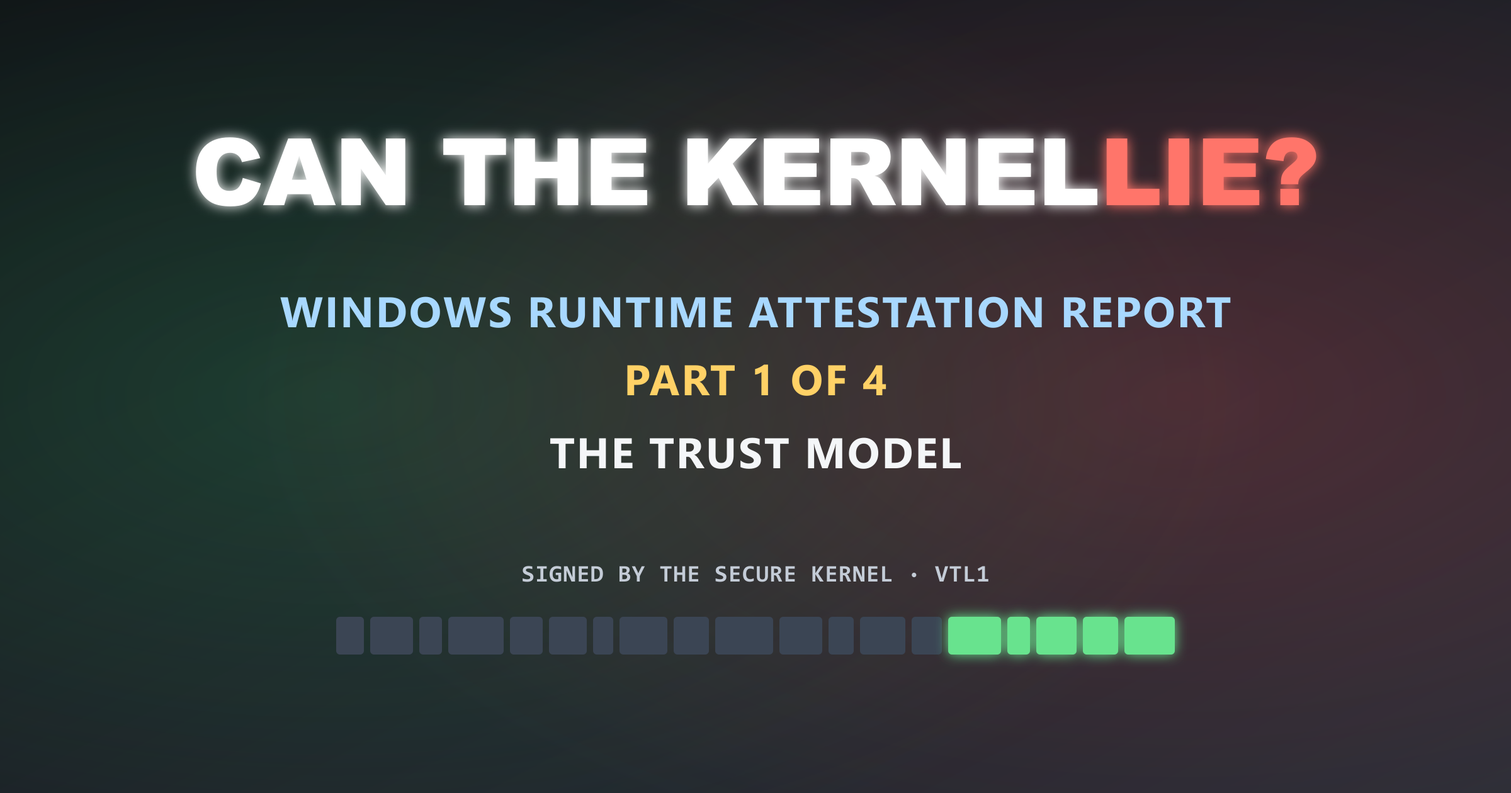
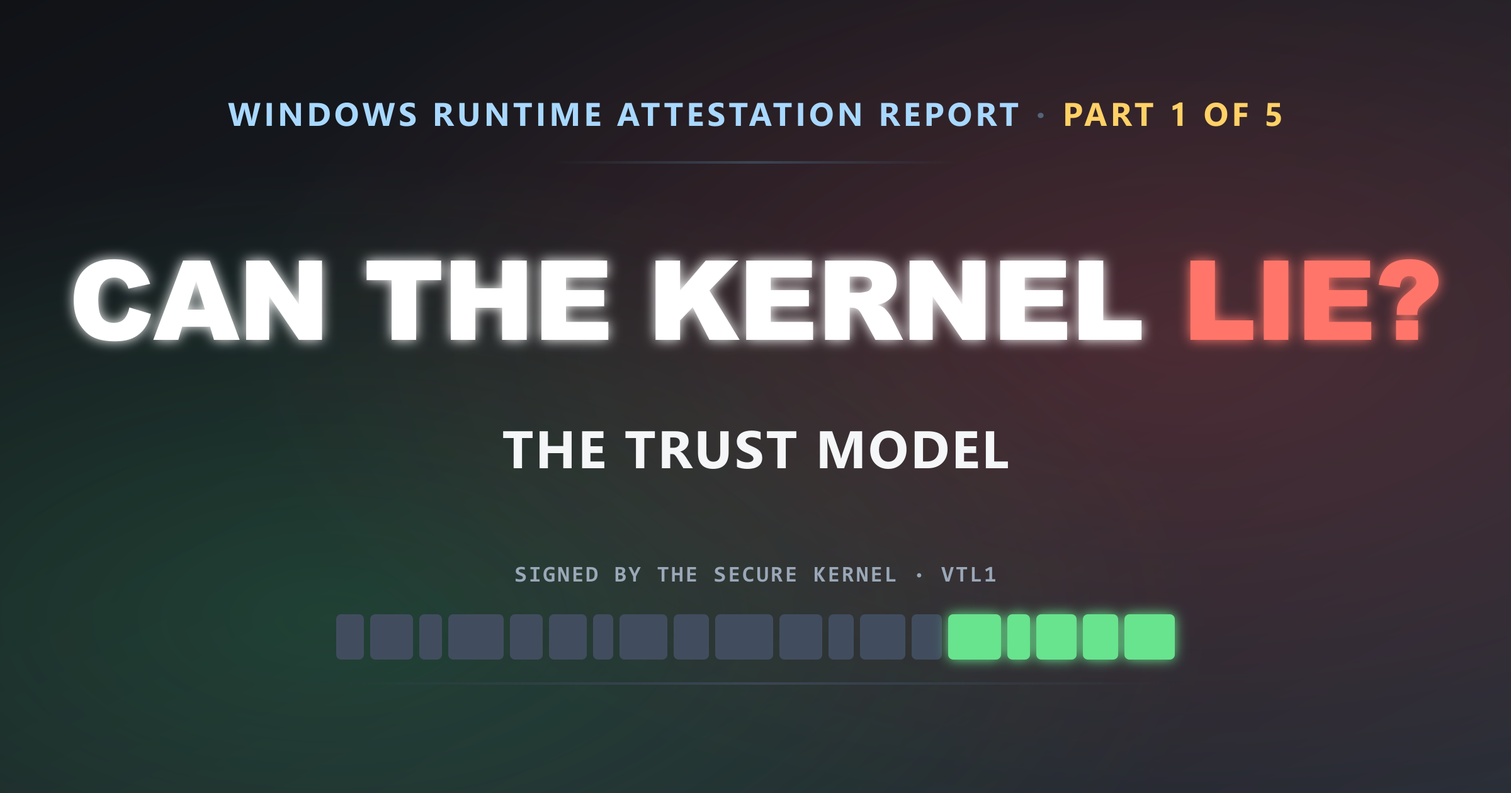
Rework the Post 1 draft and correct its trust claims
Restructure the draft on the arc used by the published hotpatch post and
bring the hero in line with the restyled series template.

Correct claims a reviewer would catch: the signed header lists the report
types the package contains rather than the ones requested, a TPM quote
ties a report to a machine without proving it is the machine being
checked, and the driver report keeps entries for unloaded drivers. Scope
the threat model where VTL1 is introduced and restore the caveat that a
clean report is not a clean machine.

Copilot-Session: 1466d9e8-30fc-473e-a57c-11063a055c92

diff --git a/_drafts/runtime-attestation-report-wip.md b/_drafts/runtime-attestation-report-wip.md
@@ -19,277 +19,148 @@ blog: true
 description: "How the Windows Runtime Attestation Report gives a remote server signed evidence about kernel state, even when the normal kernel may be compromised."
 ---
 
+Say you're writing anti-cheat. Your driver sits in the Windows kernel, down where the serious cheats operate, and your job is to spot tampering. So you ask the kernel what's loaded and what has changed.
+
+Now suppose the cheat got into the kernel before you did. You're querying the part of Windows the attacker already owns. The answer comes back clean, every time, because whatever writes that answer is the exact thing you were hunting for.
+
 A hacked computer will happily lie to you about being hacked.
 
-Take anti-cheat. Its driver runs in the Windows kernel and watches for things a
-cheat has changed. But if the cheat gets into the kernel too, the anti-cheat is
-now asking the part of Windows the attacker already owns.
-
-Ask the system "has anything been messed with?", and the answer comes back from
-code the cheat already controls: "nope, all clean." Of course it does.
-
-Windows has an answer for this now, and it's one of my favourite things we've
-shipped. It's the Windows Runtime Attestation Report. You ask for it through
-one Windows API,
-[`GetRuntimeAttestationReport`](https://learn.microsoft.com/windows/win32/api/sysinfoapi/nf-sysinfoapi-getruntimeattestationreport){: target="_blank" rel="noopener" },
-and you get back a package of facts about the machine. A part of Windows the
-normal kernel can't touch signs it. Even a fully compromised kernel can't fake
-that signature.
-
-> For context: I'm an engineer on the Windows Secure Kernel team, and the Runtime
-> Attestation Report is a feature I built. So this is the view from the inside,
-> not a reverse-engineering guess.
-{: .prompt-info }
+Windows has a way out of this now, and it's genuinely one of my favourite things we've shipped. It's called the Windows Runtime Attestation Report. One Win32 API, [`GetRuntimeAttestationReport`](https://learn.microsoft.com/windows/win32/api/sysinfoapi/nf-sysinfoapi-getruntimeattestationreport){: target="_blank" rel="noopener" }, hands you back a package of facts about the machine, signed by a part of Windows that the normal kernel cannot reach into. Even a fully compromised kernel can't forge that signature.
 
 ![On the left, a hacked normal kernel answers 'all clean' with a red warning. On the right, the Secure Kernel hands back a signed report the hacked kernel cannot forge.](/assets/images/attestation/kernel-lies.svg){: .shadow }
-_The report still crosses VTL0 on its way out. Verification happens after it
-reaches your server._
+_The report still travels out through VTL0. Verification happens later, on your server._
 
-Games are just the easiest place to picture it. The same problem shows up
-anywhere a service has to trust a machine it can't see. I'll come back to those
-other uses later.
+> For context: I'm an engineer on the Windows Secure Kernel team at Microsoft, and the Runtime Attestation Report is a feature I built. So this is the view from the inside, not a reverse-engineering guess.
+{: .prompt-info }
 
-## So who are you even proving this to?
+Games are just the easiest place to picture the problem. The same shape turns up anywhere a service has to make a trust decision about a machine it can't physically inspect, and I'll come back to those at the end.
 
-Look at what actually failed up there. The thing you were inspecting was also the
-thing answering your questions, and once that's true, its answers are worth
-nothing.
+## Who are you even proving this to?
 
-The decision has to happen somewhere the machine can't reach. In practice that's
-a server you control. The gamer's PC (or the employee's laptop, or whatever)
-gathers some facts about itself and sends them to your server. Your server
-decides whether to trust it.
+Look again at what actually failed up there. The thing being inspected was also the thing answering, and asking harder or more cleverly doesn't change that.
 
-For that to work, the machine can't rewrite the answer on its way out. A hacked
-machine still isn't trustworthy. It just can't alter the package after the
-Secure Kernel has produced it.
+So the decision has to move somewhere the attacker can't reach, which in practice means a server you control. The machine gathers facts about itself, ships them off, and your server decides what to do about them.
 
-This is remote attestation: a machine proving facts about itself to someone who
-doesn't trust it. This series is about where Windows gets those facts from.
+That only works if the machine can't quietly doctor the answer on its way out. A signed report doesn't un-hack a compromised machine. What it takes away is the attacker's ability to rewrite the evidence once the Secure Kernel has produced it.
 
-You might already know remote attestation through the TPM, best known here for
-recording what your machine loaded on the way up so a server can check the boot
-chain afterwards. That answers a different question. Measured boot tells you how
-the machine started. It doesn't tell you that a driver loaded twenty minutes ago,
-or that a patch landed since. This report is about what's there at the moment you
-ask, which is where the "runtime" in the name comes from. That's a difference in
-what the evidence describes, not a knock on the TPM.
+This is remote attestation, which is just a machine proving facts about itself to somebody who has every reason not to believe it.
 
-## An answer the normal kernel can't forge
+You may already know remote attestation through the TPM, best known around here for recording what a machine loaded on the way up so that a server can check the boot chain afterwards. That answers a different question. Measured boot tells you how the machine started; it has nothing to say about a driver that loaded twenty minutes ago, or a patch that landed since. This report covers what is there at the moment you ask, which is where the "runtime" in the name comes from.
 
-The answer cannot come from the normal kernel, because that's the part that
-might be hacked in the first place.
+## An answer the kernel can't forge
 
-On a lot of Windows 11 machines
-[Virtualization Based Security](https://learn.microsoft.com/windows-hardware/design/device-experiences/oem-vbs){: target="_blank" rel="noopener" },
-or VBS, is already switched on. With it enabled, Windows runs two kernels
-instead of one. There's the normal kernel you know, the one your drivers and the
-cheat's driver both live in. The hypervisor enforces a wall around it. Behind
-that wall sits a second kernel, much smaller and much more trusted: the Secure
-Kernel.
+The answer can't come from the normal kernel, since that's the part that might be compromised. It has to come from somewhere the attacker can't follow.
 
-The normal world is VTL0. The secure world, where the Secure Kernel lives, is
-VTL1. What matters here is the boundary between them. Even if a rootkit
-completely owns the normal kernel, it still can't get into VTL1. It can't read
-VTL1's memory or run its own code in there. The hypervisor won't let it, and the
-CPU's virtualization hardware is what makes that stick. What VTL0 can do is ask,
-through a fixed set of calls VTL1 chooses to answer. That's how your app gets a
-report at all.
+On a lot of Windows 11 machines, [Virtualization Based Security](https://learn.microsoft.com/windows-hardware/design/device-experiences/oem-vbs){: target="_blank" rel="noopener" } is already switched on. With VBS enabled, Windows runs two kernels instead of one. There's the normal kernel you already know---the one your driver and the cheat's driver both live in---and the hypervisor enforces a wall around it. Behind that wall sits a second kernel, much smaller and much more trusted: the Secure Kernel.
 
-The Secure Kernel holds a private signing key that VTL0 never gets to see. When
-it produces a package, it signs it with that key, and your server checks the
-signature against the matching public key.
+The normal world is called VTL0, and the secure world where the Secure Kernel runs is VTL1. The boundary between them is the whole point. A rootkit can own VTL0 completely and still not get into VTL1: it can't read that memory and it can't run code there, because the hypervisor won't allow it and the CPU's virtualization hardware is what makes that stick. That is the assumption behind everything in this post: the attacker can have the normal kernel, but the hypervisor and the Secure Kernel are intact.
 
-Your server has to trust that public key before the package arrives. If it just
-accepts whatever key turns up alongside the package, a compromised machine can
-generate its own key pair, sign whatever it likes, and send you the matching
-public key. The check passes and proves nothing. The verification post will
-cover how to establish that trust.
+VTL0 isn't cut off entirely, or there'd be no API to call. It can ask through a fixed set of calls that VTL1 chooses to answer.
 
-That trust has a root, and it's the TPM. The Secure Kernel's public signing key
-ends up in the TPM-signed boot logs, so you can tie the key you're checking
-against back to that specific machine's hardware. The TPM does have a job here,
-then. It anchors the key, rather than telling you what's running right now.
+The Secure Kernel holds a private signing key that VTL0 never sees. When it builds a package it signs it with that key, and your server checks the signature against the matching public key.
 
-Think of everything in VTL0, your app included, as a courier carrying a signed
-document. The courier may read or drop it. It might also bring you yesterday's
-copy, but it can't rewrite the signed contents. The report is protected from
-forgery, not from being read.
+Your server has to trust that public key *before* the package turns up, and this is where the whole scheme quietly falls apart if you get it wrong. If it just accepts whatever key arrives alongside the package, then a compromised machine generates its own key pair, signs whatever it likes, sends you the matching public key, and your check passes while proving absolutely nothing. That trust is rooted in the TPM. During boot, Windows measures things into it, and the Secure Kernel's public signing key is one of them. Your server replays that log of measurements, checks the result against a set of values the TPM itself has signed, and only then believes the key came from a machine that booted the way it claims to have booted. The TPM does have a job here after all: it anchors the key rather than telling you what's running right now. My colleague Andrea Allievi has written up [how the TPM side of this works](https://www.andrea-allievi.com/blog/new-year-post-anti-cheat-evolution-in-windows-11/){: target="_blank" rel="noopener" } in detail, and I'll walk through the checking end of it later in the series.
 
 ![The VBS trust boundary: VTL0 carries a signed package across the boundary but cannot alter it; the Secure Kernel in VTL1 holds the signing key VTL0 never sees.](/assets/images/attestation/trust-boundary.svg){: .shadow }
-_VTL0 asks and VTL1 answers, which is also how your server's challenge gets
-across._
+_VTL0 asks and VTL1 answers, which is also how your server's challenge gets across._
 
-A verified package tells you the Secure Kernel produced it. It doesn't tell you
-where the Secure Kernel got each fact. A notary's stamp works the same way. It
-proves the document was signed in front of the notary. It says nothing about
-whether what's written inside is true.
+Think of everything in VTL0, your own app included, as an untrusted courier carrying a sealed envelope. It can read what's inside or lose it on the way, but altering the contents breaks the seal before your server ever opens it.
 
-Some of what's in the report VTL1 measured itself. Some of it VTL0 handed over
-and VTL1 wrote down. Both end up under the same signature. Your server needs to
-know where each field came from before it uses it. The
-[hotpatch post](/secure-hotpatch-report/) walks through exactly where that line
-falls for one of the reports, and it isn't where most people guess.
+A verified package tells you the Secure Kernel produced it. It doesn't tell you where the Secure Kernel got each individual fact. A notary's stamp works the same way: it proves the document was signed in front of the notary, and says nothing about whether the contents are true. Some of what lands in a report was measured by VTL1 itself. Some of it was handed over by VTL0 and written down. Both end up under the same signature, so your policy needs to know which is which. The [hotpatch post](/secure-hotpatch-report/) walks through exactly where that line falls for one report type, and it isn't where most people assume.
 
-## One package, several reports
+## What you actually get back
 
-The package works like an envelope with a few separate documents inside.
+The package works like an envelope with a few separate documents inside it.
 
-Each document is a report of a specific kind. The driver report lists kernel
-drivers loaded right now, with enough identity on each one to tell the real
-`nvlddmkm.sys` from something just wearing its name. The hotpatch report says
-which kernel-mode images have a live Microsoft patch on them, and how far down
-the patch chain the machine is. The Windows SDK also defines a Code Integrity
-report type. This series and the sample focus on the Driver and Hotpatch
-reports. More kinds can be added later, and when they are, the way you ask stays
-the same.
+Each document is a report of a particular kind. The driver report lists kernel drivers the machine has loaded, including ones that have since been unloaded, with enough identity on each to tell the real `nvlddmkm.sys` from an impostor with the same name. The hotpatch report says which kernel-mode images currently have a live Microsoft patch on them. The Windows SDK defines a Code Integrity report type as well. This series and the public sample concentrate on the driver and hotpatch reports, and more kinds can be added later without changing how you ask.
 
-When you make the call, you say which kinds you want. The Secure Kernel builds
-each one by that report's own rules and puts them in one package. The package
-ties the challenge and every included report back to the same signature.
+Running the sample on a test machine, the top of that package looks like this:
+
+```plaintext
+========================================================================
+  Runtime Report Package
+========================================================================
+  version   : 1
+  reports   : 2
+  size      : 10520 bytes
+  digest    : SHA-512
+  signature : RSA-PSS SHA-512
+```
+
+Two reports, ten kilobytes, one signature that authenticates both through their digests. The field-by-field breakdown comes later; for now the only thing worth noticing is that the list of report types in the package is recorded *inside* the signed part, which matters once we give the attacker the kernel.
 
 ![A signed outer envelope containing a fresh challenge and the Driver, Hotpatch, and Code Integrity report types defined by the Windows SDK. This series focuses on Driver and Hotpatch.](/assets/images/attestation/one-package.svg){: .shadow }
-_The report types you requested are recorded inside the signed part. Your server
-can tell if one is missing._
+_The list of report types in the package sits inside the signed part, so your server can tell when one is missing._
 
-Once the package has been verified, you know the Secure Kernel produced it. You
-do not know that the machine is clean. The reports answer specific questions:
-which drivers are loaded and what's patched. They stop there.
+## How the round trip works
 
-## What actually happens when you ask
+The code comes in the next post, but the shape of the exchange is worth having in your head first.
 
-The request works like this. The code comes in the next post.
-
-1. Your server picks a fresh random number and sends it to the machine as a
-   challenge. (More on why in a second.)
-2. Your app on the machine calls `GetRuntimeAttestationReport`, saying which
-   reports it wants and handing over that challenge.
-3. Down in the Secure Kernel, Windows builds each requested report by that
-   report's own rules and puts them in one package.
-4. The Secure Kernel signs the package with your challenge inside it, and hands
-   it back to your app.
-5. Your app ships the signed package off to your server.
-6. Your server verifies the package, using a public key it already trusts, and
-   checks that the challenge inside is the exact one it just sent.
-7. If both hold, your server reads the facts and decides what to do, usually by
-   comparing against a known-good baseline or a policy you set.
+1. Your server picks a fresh random number and sends it to the machine as a challenge.
+2. Your app calls `GetRuntimeAttestationReport`, saying which reports it wants and passing along that challenge.
+3. The Secure Kernel builds each requested report and puts them in one package.
+4. It signs the package, with your challenge inside it, and hands it back to your app.
+5. Your app ships the signed package to your server.
+6. Your server verifies it using a public key it already trusts, then checks that the challenge inside is the exact one it just sent.
+7. If both hold, your server checks that every report its policy needs is in the package, then reads the facts and applies that policy.
 
 ![A numbered round trip: the server sends a fresh challenge, the app calls the API, the Secure Kernel produces a signed package, the app returns it, and the server verifies the package with a trusted key before applying policy.](/assets/images/attestation/attestation-roundtrip.svg){: .shadow }
-_Steps 1, 6 and 7 are yours to get right. Your app in the middle is just a
-courier, and it never has to be trusted._
+_Steps 1, 6 and 7 are yours to get right. Your app in the middle is only a courier, and never has to be trusted._
 
-Now, step 1, the challenge. Its proper name is a nonce, and it's there to stop an
-old report being replayed. Without it, an attacker could capture one good report
-from a healthy machine and keep re-sending that same signed package forever, long
-after the machine went bad. Because your server picks a fresh, unpredictable
-value every time and insists on seeing that exact value back inside the signed
-package, a stale copy doesn't match. If your server doesn't generate it, or
-doesn't check it on the way back, it buys you nothing at all.
+That challenge in step 1 is called a nonce, and it stops an old report being replayed. Without it an attacker captures one good package from a healthy machine and keeps re-sending it forever, long after the machine has gone bad. Because your server picks an unpredictable value every time and insists on seeing that same value back inside the signed package, yesterday's copy no longer matches. If your server doesn't generate it, or forgets to check it on the way back, you've gained nothing.
 
 ## Now give the attacker the kernel
 
-Now assume the attacker owns the whole normal kernel. The hypervisor and the
-Secure Kernel still hold. Under that threat model, these are the moves left.
+Assume the worst. The attacker owns the entire normal kernel, and the hypervisor and Secure Kernel are still standing. What moves are left?
 
-They can **tamper** with the package. Open the envelope, flip a bit, take out the
-driver they'd rather you didn't see. But every report is tied back to the signed
-package, so the moment they change anything, verification fails. Your server
-throws the package out. Tampering fails.
+The obvious move is to **tamper** with the package, flipping a bit or lifting out the driver they'd rather you didn't see. But every report is bound to the signature, so the moment anything changes, verification fails and your server throws the package away.
 
-They can **replay** an old package. Grab one your server accepted earlier, or one
-from another machine, and send that instead. But your server put a fresh
-challenge in this request, and that old package has a different one baked in. It
-doesn't match, so your server rejects it. Replay fails.
+They might instead **replay** an old package, either one your server accepted earlier or one lifted from a different machine. But you put a fresh challenge in this request, and that old package has a different one sealed inside it. No match, and it's rejected.
 
-They can **ask for less**. Your policy needs the driver report, so the
-compromised app quietly requests only the hotpatch report and sends back a
-package that is perfectly valid and conveniently incomplete. The list of report
-types is inside the signed part of the package, so the machine can't lie about
-what's in there. If your server checks that list against what your policy
-requires and rejects anything short, this move fails too.
+A subtler option is to **ask for less**. Your policy needs the driver report, so the compromised app requests only the hotpatch report and returns something perfectly valid and conveniently incomplete. This is where that signed list pays off. The package says which report types it contains, the attacker can't edit that list, and your server rejects any package that is missing a report your policy needs.
 
-They can **suppress** the package. They can block the call or drop the package
-before it reaches your server. The machine can also show up with VBS disabled,
-so there's no report to send in the first place. Either way, they can stop you
-from getting an answer. What they can't do is turn silence into a pass, unless
-you let them. You see no valid package, and what happens next is your policy's
-call.
+The crude fallback is **suppression**. Kill the call, drop the response, or show up with VBS switched off so there's no report to send in the first place. They can stop you getting an answer, but they can't turn that silence into a pass unless you let them. What happens next is your policy's call.
 
-They still cannot build their own package after the fact and give it a valid
-VTL1 signature. That signature comes from a key inside VTL1 they never get to
-touch.
+None of these moves lets them forge a valid VTL1 signature. That key is somewhere they can't reach.
 
 ![An attacker in control of VTL0 tries to tamper with, replay, trim, and suppress the package; verification catches the first three, suppression leaves you with no answer, and forging a new signature is impossible without the VTL1 key.](/assets/images/attestation/attacker-moves.svg){: .shadow }
-_Verification catches tampering and replay, and it tells your server when a
-required report is missing. A missing package is a separate policy case._
+_Verification catches tampering and replay, and tells your server when a required report is missing. A missing package is a separate policy case._
 
-Owning the machine also gives the attacker control over timing. Nothing stops
-them unloading the cheat, asking for a report while their driver is gone, and
-putting the cheat back. They control when it reaches you as well, so a report can
-arrive late. The report only captures the moment it was produced. If you ask
-often, at moments they can't predict, the gap gets small. It doesn't close.
+There are three limitations you should know about.
 
-The attacker can also use a second, clean machine. The hacked one can quietly
-forward your challenge to it, let it produce a genuine signed package, and hand
-that back to your server as though it came from the hacked one. The nonce
-doesn't catch this. The signature is real and the challenge is real, they just
-came from the wrong machine. Catching it means tying a report to the specific
-machine it came from, which is a separate problem from this API, and one every
-remote attestation scheme has to deal with. I'll cover what you've got to work
-with in the verification post.
+A report is a snapshot. It describes the machine up to the moment the Secure Kernel built it and says nothing about what happens afterwards, so a driver loaded a second later isn't in it. The driver report softens this, because it also keeps entries for drivers that have since been unloaded, so the next report still shows that driver. That's the reason to ask again, often, at times the machine can't predict.
 
-## What you can build with this
+A report is also narrow. The driver report covers drivers and the hotpatch report covers hotpatched images. Neither says anything about a cheat running in user mode, for example, so a clean report is not the same thing as a clean machine.
 
-None of this is really about games. Anti-cheat is just the noisiest place this
-shows up first. Strip the games out of it and the shape is the same everywhere:
+The third is nastier, and it has a name. A hacked machine can forward your challenge to a second, healthy machine, let that one produce a genuine signed package, and pass it back to your server as its own. The nonce doesn't catch this, because the signature is real and the challenge is real. They just came from the wrong computer. This is the [cuckoo attack](https://www.usenix.org/event/hotsec08/tech/full_papers/parno/parno_html/){: target="_blank" rel="noopener" }, which Bryan Parno wrote up in 2008, and nothing about it is specific to Windows. Every remote attestation scheme has to deal with it. Tracing the key back through the TPM tells your server which machine produced a report. It doesn't tell your server that this is the machine it meant to check. I'll come back to what you can do about that in the last post of this series.
 
-- **Anti-cheat** asks: which drivers are loaded, and is this code change a real
-  patch or a cheat? Riot's Vanguard uses the driver report for its new
-  [on-demand mode](https://www.riotgames.com/en/news/vanguard-on-demand){: target="_blank" rel="noopener" }.
-- **Anti-malware and EDR** ask the same shape of question: is there a driver down
-  there nobody expected, and when kernel code has changed, is there a real patch
-  that explains it?
-- **Enterprise access** asks: before this laptop touches company data, is it
-  actually in the state our policy requires?
-- **Content protection** asks: is this device healthy enough to be handed
-  something valuable?
+## What this is good for
 
-The report doesn't answer any of these questions on its own. What it gives you is
-an answer VTL0 can't quietly rewrite after the Secure Kernel produces it. Your
-policy still has to know where each fact came from, and your decision goes on top
-of that.
+None of this is really about games. Anti-cheat is just the loudest place it shows up first, and once you take the games out, the same shape is everywhere.
 
-## The rest of the series
+- **Anti-cheat** asks what the machine has loaded, and whether a code change is a real patch or a hook. Riot's Vanguard uses the driver report for its [on-demand mode](https://www.riotgames.com/en/news/vanguard-on-demand){: target="_blank" rel="noopener" }.
+- **Anti-malware and EDR** ask a similar question: is there a driver down there nobody expected, and when kernel code has changed, is there a legitimate patch that explains it?
+- **Enterprise access** asks whether a laptop is in the state policy requires before it gets near company data.
 
-1. **This post.** Why a compromised kernel can't vouch for itself, and what a
-   signed report does and doesn't prove.
-2. **The package and the API.** What actually comes back from the call, field by
-   field, and how to pull the reports out in code.
-3. **[The Secure Hotpatch Report](/secure-hotpatch-report/).** Telling a real
-   Microsoft hotpatch apart from kernel tampering.
-4. **The driver report.** Which drivers are loaded, with the identity you need
-   to tell a real one from an impostor.
-5. **Verifying the signature.** How the package is signed and how you check it
-   yourself, so none of this rests on taking my word for it.
+The report doesn't answer any of these on its own, but it gives you an answer VTL0 can't edit after the fact, which is a much better starting point than anti-cheat has had.
 
-If you'd rather skip ahead and run something, the public sample retrieves,
-parses, and prints the Driver and Hotpatch reports on x64 and ARM64. It
-statically links the C runtime, so the executable doesn't need the Visual C++
-Redistributable.
+## Try it yourself
 
-The sample stops after parsing and printing. It does not verify the package
-signature or the report digests, so it is a starting point for the client side,
-not a complete remote-attestation verifier.
+The public sample retrieves, parses and prints the driver and hotpatch reports on x64 and ARM64. It needs no third-party dependencies, just the Windows SDK and the MSVC toolchain, and it statically links the C runtime so the executable runs without the Visual C++ Redistributable.
 
-To produce a Driver report, you need Windows 11 25H2 or later with VBS and HVCI
-enabled. The Hotpatch report needs Insider build 29591.1000 or later with VBS
-enabled; HVCI is not required. The README spells all of that out:
-[github.com/CodeMaxx/windows-runtime-attestation-report](https://github.com/CodeMaxx/windows-runtime-attestation-report){: target="_blank" rel="noopener" }.
+It only parses and prints, so it doesn't verify the package signature or the report digests. Treat it as a starting point for the client side rather than a finished verifier.
 
-Thanks for reading! If any of this is unclear, or you think I've got something
-wrong, tell me in the comments, I'd genuinely like to know. :)
+For a driver report you'll want Windows 11 25H2 or later with VBS and HVCI enabled. The hotpatch report needs Insider build 29591.1000 or later with VBS on, and doesn't require HVCI. The README spells all of that out: [github.com/CodeMaxx/windows-runtime-attestation-report](https://github.com/CodeMaxx/windows-runtime-attestation-report){: target="_blank" rel="noopener" }.
 
-> Just want the API reference? The Learn page for
-> [`GetRuntimeAttestationReport`](https://learn.microsoft.com/windows/win32/api/sysinfoapi/nf-sysinfoapi-getruntimeattestationreport){: target="_blank" rel="noopener" }
-> has the function parameters and the package layout.
+The rest of the series:
+
+1. **This post.** Why a compromised kernel can't vouch for itself, and what a signed report does and doesn't prove.
+2. **The package and the API.** What comes back from the call field by field, and how to pull the reports out in code.
+3. **[The Secure Hotpatch Report](/secure-hotpatch-report/).** Telling a real Microsoft hotpatch apart from kernel tampering.
+4. **The driver report.** Every driver the machine has loaded, including the ones that are gone again, with the identity you need to spot an impostor.
+5. **Trusting the key.** How your server uses the TPM to decide the signing key belongs to a real Secure Kernel, and what that does and doesn't tell you about which machine you're talking to.
+
+Thank you for reading! If any of this is unclear, or you think I've got something wrong, let me know in the comments. :)
+
+> Just want the API reference? The Learn page for [`GetRuntimeAttestationReport`](https://learn.microsoft.com/windows/win32/api/sysinfoapi/nf-sysinfoapi-getruntimeattestationreport){: target="_blank" rel="noopener" } has the function parameters and the package layout.
 {: .prompt-tip }
